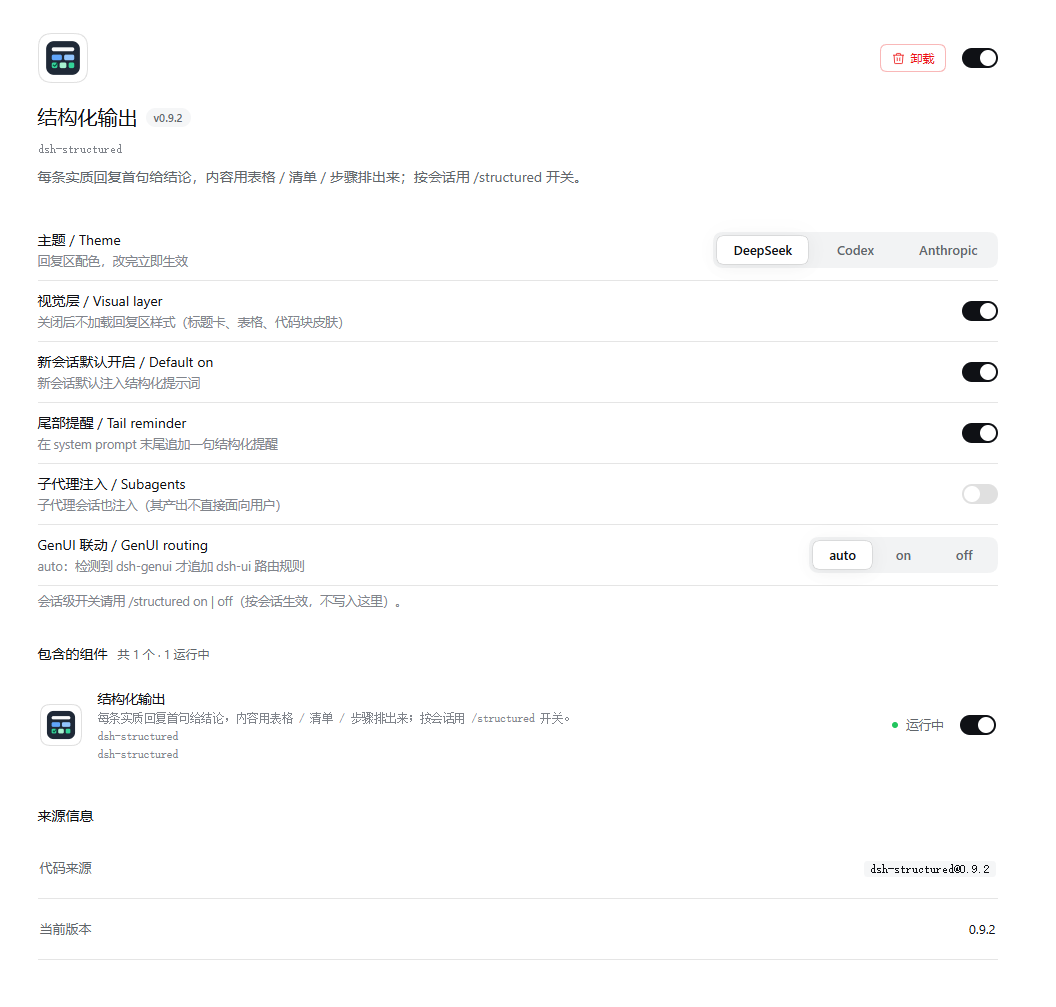
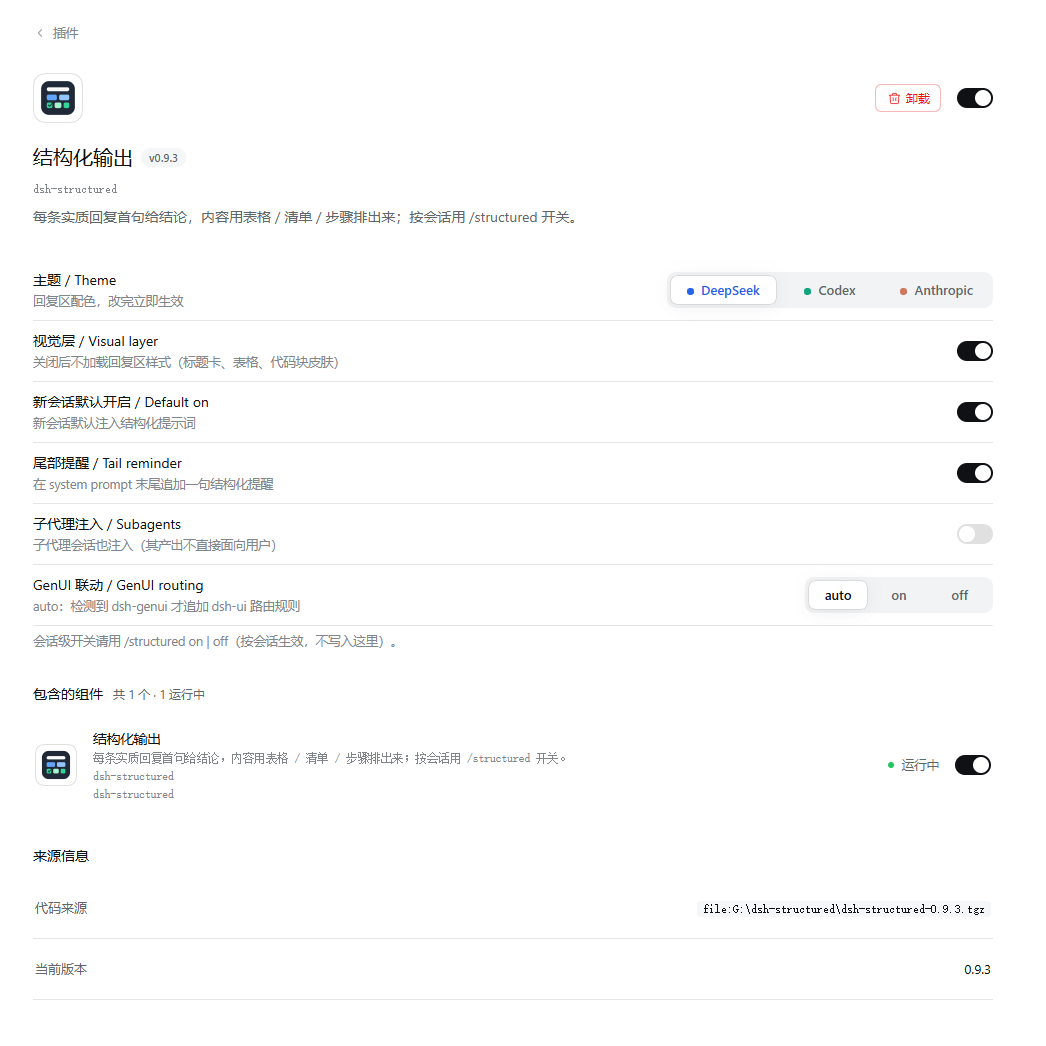
Replace 11-config-page with Boss's 0.9.3 capture (theme dots visible)

diff --git a/docs/MAINTENANCE-LOG.md b/docs/MAINTENANCE-LOG.md
@@ -118,3 +118,8 @@
 - **desktop 预览**：`pnpm add file:…0.9.3.tgz` 成功（备份 *.bak-*），实装 0.9.3，config CSS 已随 lib/client.js 分发；依赖暂为 file: 形态，正式发布 0.9.3 后换回 registry。
 - **未发布**：npm / Release / 市场仍是 0.9.2（市场 PR #9046 等合并中）。发布 0.9.3 需 Boss 明确同意。
 - **待 Boss 重启验证**：主题三分段按钮的强调色圆点与选中文字色（明暗两态）。
+
+## 2026-10-24 · 0.9.3 定稿：实机截图替换
+
+- **Boss 验收**：圆点样式通过（不改竖条）；提供 0.9.3 实机截图（主题三色圆点 + DeepSeek 选中态蓝色强调均可见）替换 `11-config-page.png`（94,880 B），README 第 7 张截图与实际效果一致。
+- **指令**：Boss「继续任务」= 走正式发布链（npm / Release / 市场），见下一条记录。
